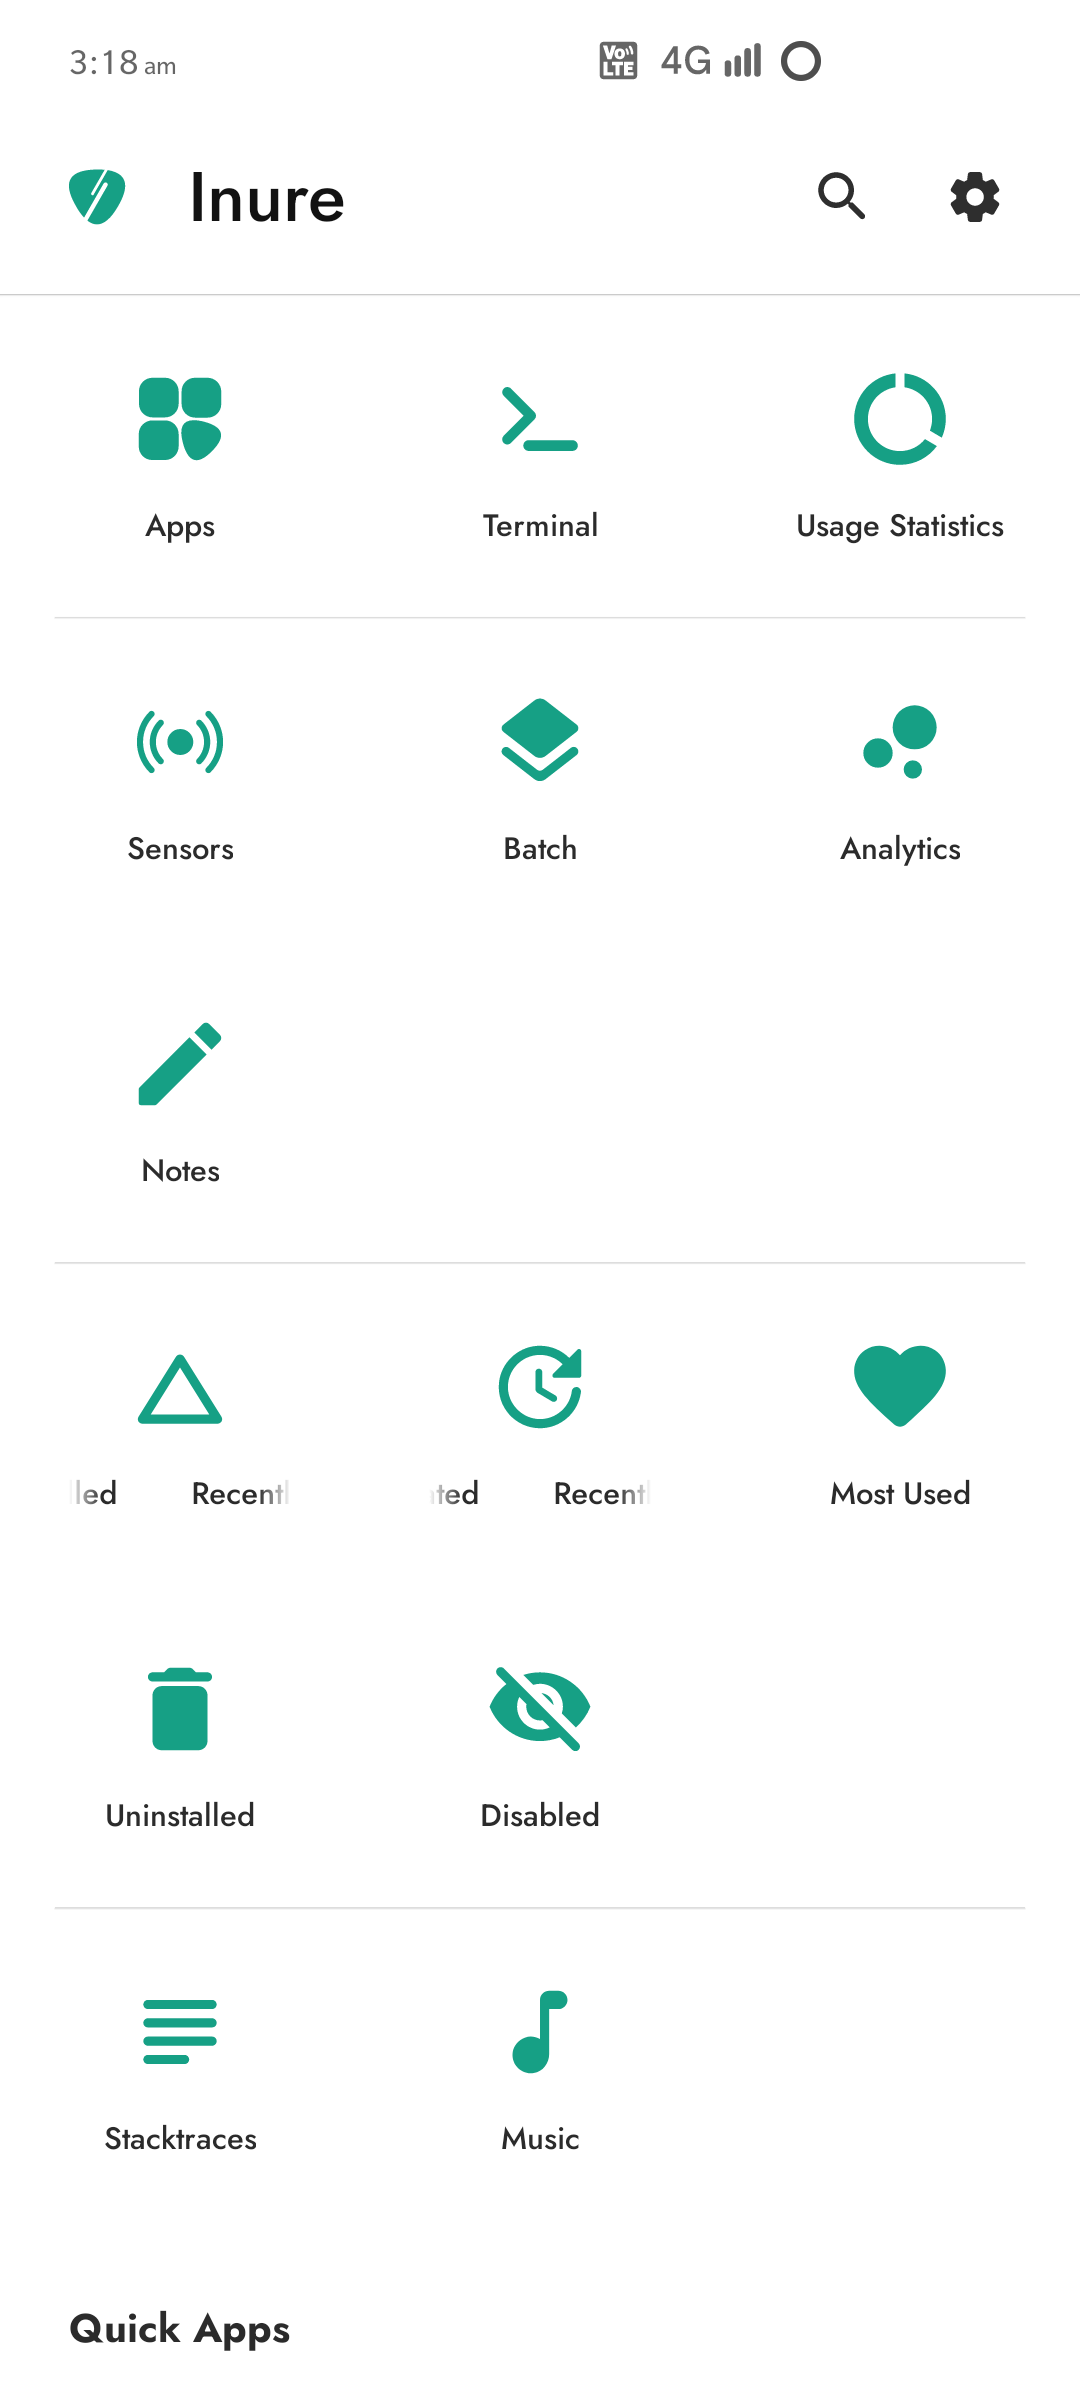
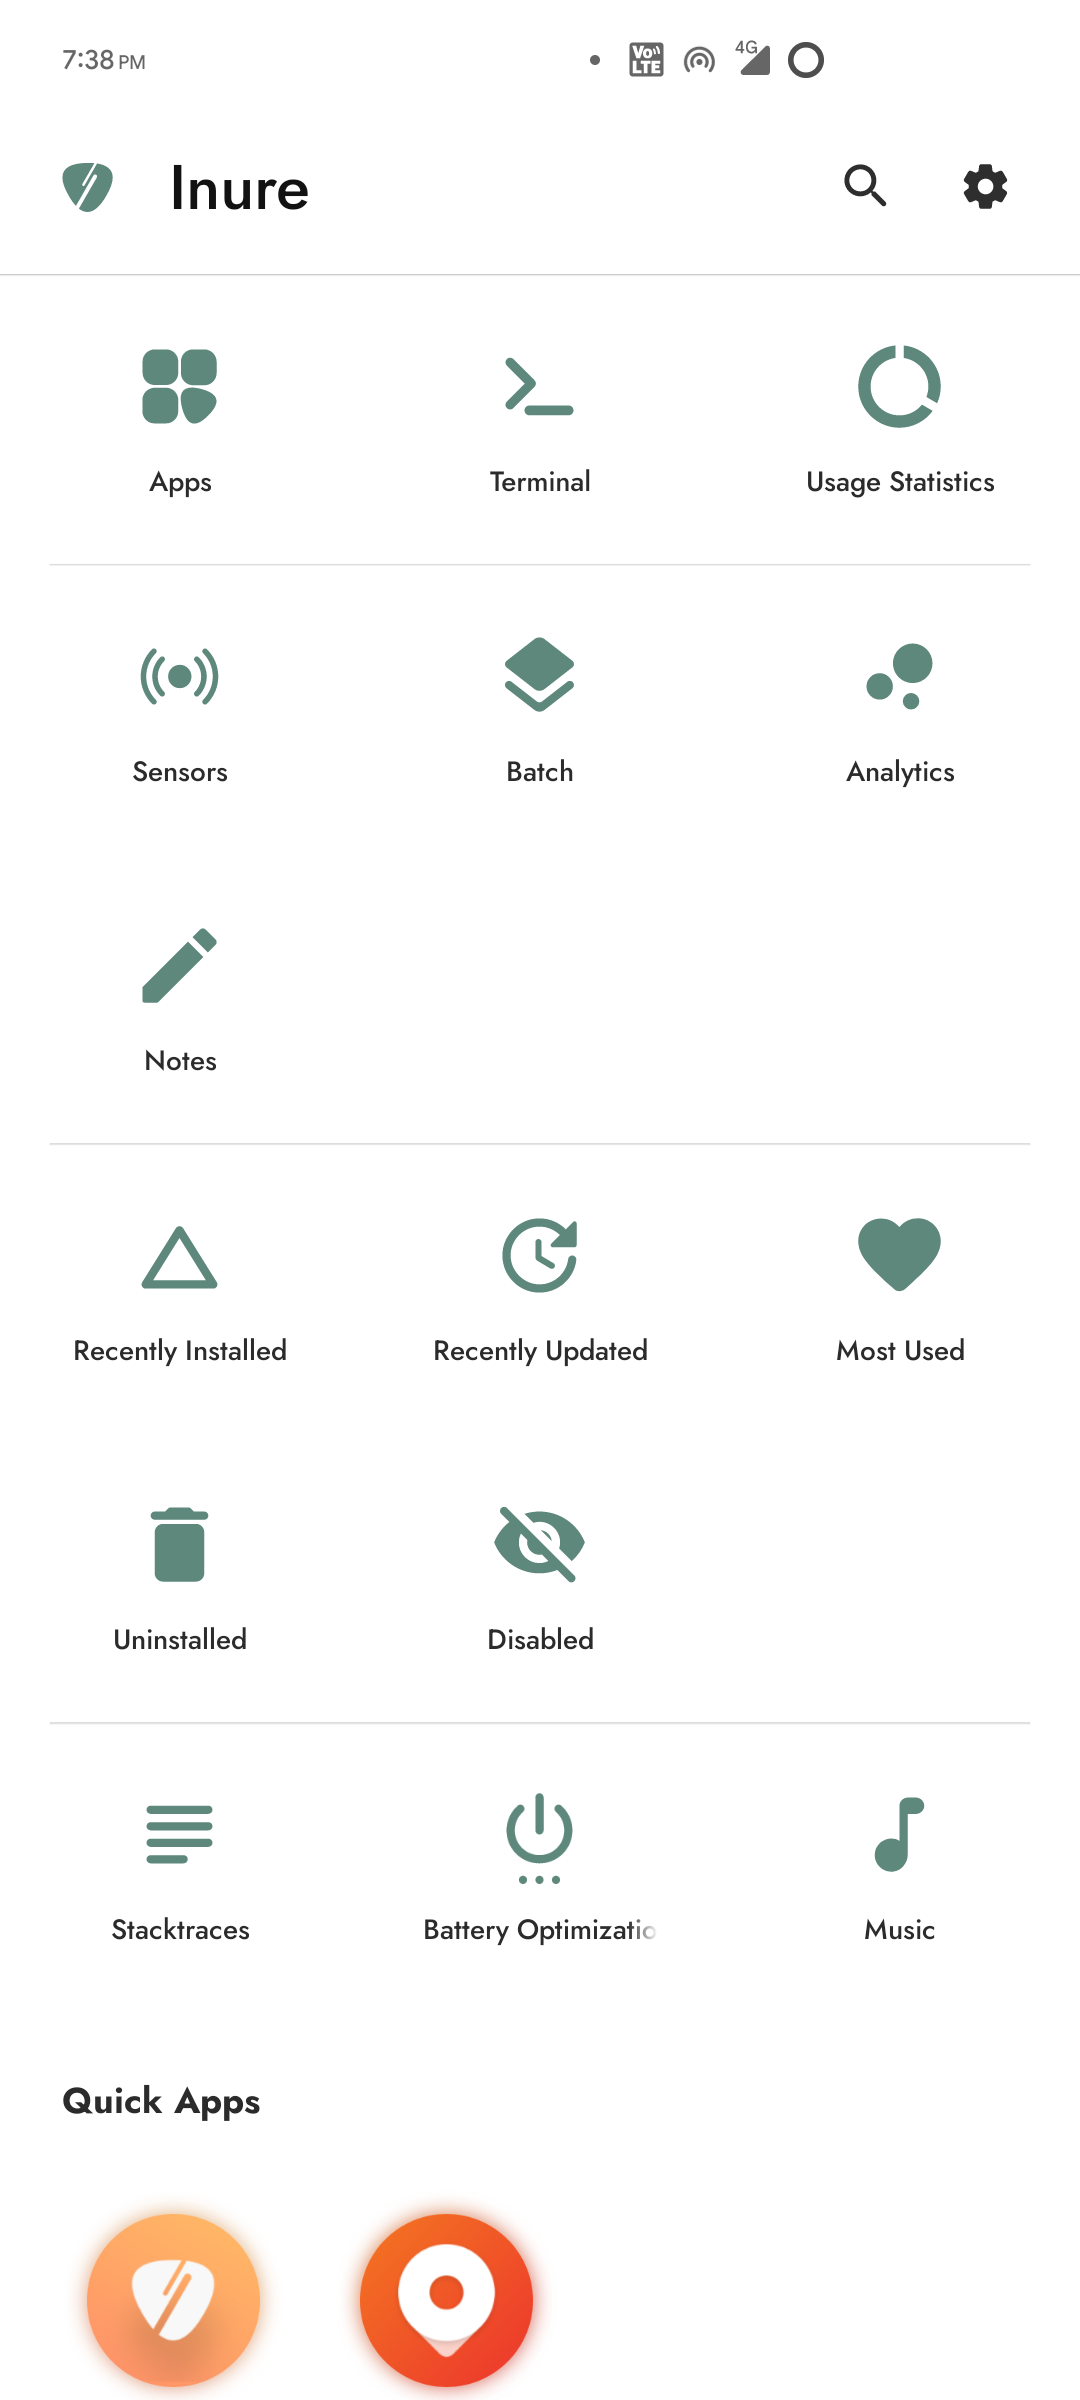
Updated fastlane metadata

diff --git a/README.md b/README.md
@@ -52,8 +52,9 @@ High priority features
 - [ ] APK browser for apps that are not yet installed
 - [ ] Modify Shared Prefs of other apps (root).
 - [ ] Modify SQLite databases of other apps (root).
-- [ ] Multiple user support.
-- [ ] Use app via ADB Shell instead of root?
+- [ ] Multiple user support (suspended).
+- [ ] Use app via ADB Shell instead of root? (suspended)
+- [x] Add battery optimisation manager for all apps
 
 Low priority features
 
